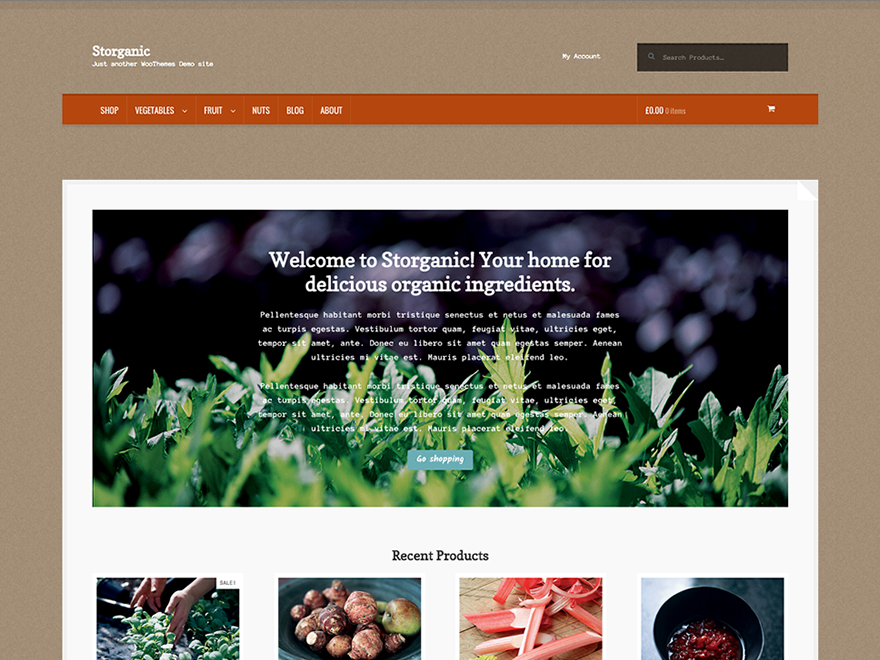
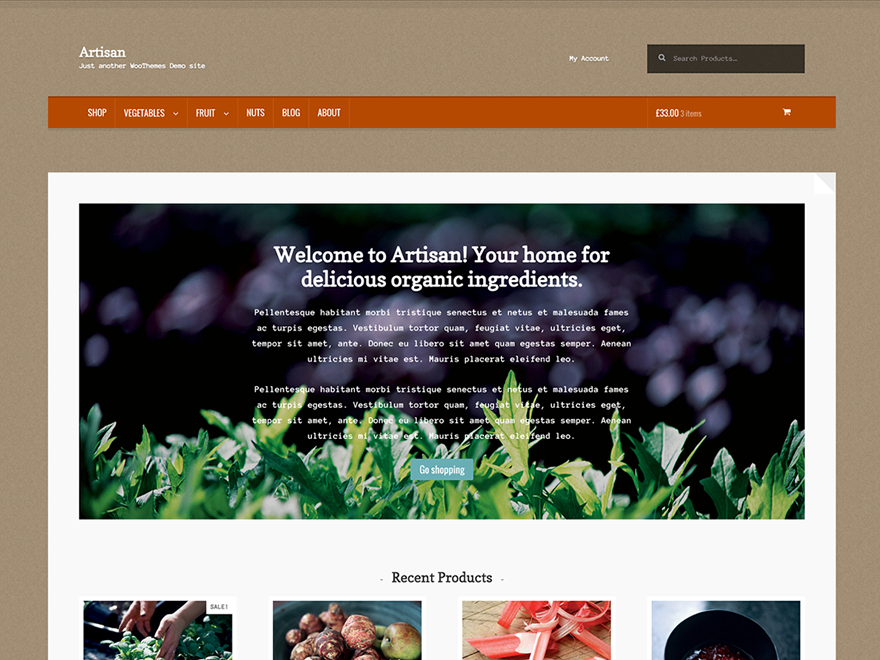
accessibility-ready

diff --git a/style.css b/style.css
@@ -8,13 +8,13 @@ Template:		storefront
 Version:		1.0.0
 License:		GNU General Public License v2 or later
 License URI:	http://www.gnu.org/licenses/gpl-2.0.html
-Tags:			light, green, brown, two-columns, right-sidebar, left-sidebar, responsive-layout
+Tags:			light, green, brown, two-columns, right-sidebar, left-sidebar, responsive-layout, accessibility-ready
 Text Domain:	artisan
 */
 /* =Artisan styles starts here
 -------------------------------------------------------------- */
 body {
-  background-color: #545045;
+  background-color: #645846;
   font-size: .857em;
   -webkit-font-smoothing: subpixel-antialiased; }
   body:before, body:after {
@@ -256,8 +256,7 @@ button.menu-toggle {
   background: #f9f9f9;
   position: relative;
   margin-bottom: 3.631em !important;
-  padding: 1em;
-  box-shadow: 0 0.327em 0 rgba(0, 0, 0, 0.075); }
+  padding: 1em; }
   .content-area:after, .content-area:before {
     content: "";
     display: block;
@@ -295,6 +294,8 @@ button.menu-toggle {
 .header-widget-region .widget_product_search input[type=search],
 .header-widget-region .widget_product_search input[type=text] {
   background: rgba(0, 0, 0, 0.65);
+  color: #fff;
+  text-shadow: 0 1px 0 rgba(0, 0, 0, 0.5);
   box-shadow: inset 0 1px 3px rgba(0, 0, 0, 0.3), 0 1px 1px rgba(255, 255, 255, 0.2); }
 
 .site-footer {
@@ -324,6 +325,10 @@ button.menu-toggle {
 .site-main ul.products li.product h3 {
   font-size: 1.2em; }
 
+.storefront-sorting {
+  border-style: dotted;
+  border-width: 2px 0; }
+
 .woocommerce-breadcrumb {
   margin-top: 0; }
 
@@ -332,7 +337,7 @@ button.menu-toggle {
 
 .single-product div.product .summary .price {
   font-weight: 400;
-  background-color: #69adb5;
+  background-color: #0e7784;
   color: #fff;
   display: inline-block;
   padding: .53em 2.244em .53em 1em;
@@ -354,7 +359,7 @@ button.menu-toggle {
 .widget-area .widget {
   padding: 2.618em 1em 1em 1em;
   position: relative;
-  background: rgba(255, 255, 255, 0.7);
+  background: rgba(255, 255, 255, 0.85);
   font-family: "Kalam"; }
   .widget-area .widget:after {
     content: "";
@@ -364,7 +369,7 @@ button.menu-toggle {
     left: 0;
     width: 100%;
     height: 7px;
-    background: -webkit-linear-gradient(transparent 0%, transparent 0%), -webkit-linear-gradient(135deg, rgba(255, 255, 255, 0.7) 33.33%, transparent 33.33%) 0 0%, transparent -webkit-linear-gradient(45deg, rgba(255, 255, 255, 0.7) 33.33%, transparent 33.33%) 0 0%;
+    background: -webkit-linear-gradient(transparent 0%, transparent 0%), -webkit-linear-gradient(135deg, rgba(255, 255, 255, 0.85) 33.33%, transparent 33.33%) 0 0%, transparent -webkit-linear-gradient(45deg, rgba(255, 255, 255, 0.85) 33.33%, transparent 33.33%) 0 0%;
     background-size: 0px 100%, 9px 9px, 9px 9px;
     -webkit-transform: rotate(180deg);
     -moz-transform: rotate(180deg);
@@ -610,9 +615,6 @@ button.menu-toggle {
     overflow: visible; }
     .site-main ul.products li.product h3 {
       font-weight: 700; }
-    .site-main ul.products li.product img {
-      background: #fff;
-      padding: .618em; }
     .site-main ul.products li.product .onsale {
       position: absolute;
       top: .618em;
@@ -788,6 +790,3 @@ button.menu-toggle {
   .col-full {
     margin-left: 0;
     margin-right: 0; } }
-@media screen and (min-width: 1024px) {
-  body {
-    font-size: .95em; } }

diff --git a/style.scss b/style.scss
@@ -8,7 +8,7 @@ Template:		storefront
 Version:		1.0.0
 License:		GNU General Public License v2 or later
 License URI:	http://www.gnu.org/licenses/gpl-2.0.html
-Tags:			light, green, brown, two-columns, right-sidebar, left-sidebar, responsive-layout
+Tags:			light, green, brown, two-columns, right-sidebar, left-sidebar, responsive-layout, accessibility-ready
 Text Domain:	artisan
 */
 
@@ -21,7 +21,7 @@ Text Domain:	artisan
 @import '../storefront/sass/utils/variables';
 
 $orange: 	#b64902;
-$blue: 		#69adb5;
+$blue: 		#0e7784;
 $chocolate: #7D5D4E;
 $jasper:	#D28779;
 $sage:		#98a98b;
@@ -35,7 +35,7 @@ $monospace: 'Anonymous Pro', monospace;
 $handwritten: 'Kalam';
 
 body {
-	background-color: #545045;
+	background-color: #645846;
 	font-size: .857em;
 	-webkit-font-smoothing: subpixel-antialiased;
 
@@ -341,8 +341,6 @@ button.menu-toggle {
 	position: relative;
 	margin-bottom: 3.631em !important;
 	padding: 1em;
-	box-shadow:
-		0 .327em 0 rgba(#000,.075);
 
 	&:after,
 	&:before {
@@ -385,6 +383,8 @@ button.menu-toggle {
 .header-widget-region .widget_product_search input[type=search],
 .header-widget-region .widget_product_search input[type=text] {
 	background: rgba(#000,.65);
+	color: #fff;
+	text-shadow: 0 1px 0 rgba(#000,.5);
 	box-shadow:
 		inset 0 1px 3px rgba(#000,.3),
 		0 1px 1px rgba(#fff,.2);
@@ -438,6 +438,11 @@ button.menu-toggle {
 	}
 }
 
+.storefront-sorting {
+	border-style: dotted;
+	border-width: 2px 0;
+}
+
 .woocommerce-breadcrumb {
 	margin-top: 0;
 }
@@ -481,7 +486,7 @@ button.menu-toggle {
 	.widget {
 		padding: 2.618em 1em 1em 1em;
 		position: relative;
-		background: rgba(#fff,.7);
+		background: rgba(#fff,.85);
 		font-family: $handwritten;
 
 		&:after {
@@ -492,7 +497,7 @@ button.menu-toggle {
 		    left: 0;
 		    width: 100%;
 		    height: 7px;
-	   		background: -webkit-linear-gradient(rgba(#000,0) 0%, transparent 0%), -webkit-linear-gradient(135deg, rgba(#fff,.7) 33.33%, transparent 33.33%) 0 0%, rgba(#000,0) -webkit-linear-gradient(45deg, rgba(#fff,.7) 33.33%, rgba(#000,0) 33.33%) 0 0%;
+	   		background: -webkit-linear-gradient(rgba(#000,0) 0%, transparent 0%), -webkit-linear-gradient(135deg, rgba(#fff,.85) 33.33%, transparent 33.33%) 0 0%, rgba(#000,0) -webkit-linear-gradient(45deg, rgba(#fff,.85) 33.33%, rgba(#000,0) 33.33%) 0 0%;
 		    background-size: 0px 100%, 9px 9px, 9px 9px;
 		    @include transform(rotate(180deg));
 		}
@@ -834,11 +839,6 @@ button.menu-toggle {
 					font-weight: 700;
 				}
 
-				img {
-					background: #fff;
-					padding: .618em;
-				}
-
 				.onsale {
 					position: absolute;
 					top: .618em;
@@ -1085,11 +1085,5 @@ button.menu-toggle {
 	.col-full {
 		margin-left: 0;
 		margin-right: 0;
-	}
-}
-
-@media screen and (min-width: 1024px) {
-	body {
-		font-size: .95em;
 	}
 }

diff --git a/inc/customizer/colors.php b/inc/customizer/colors.php
@@ -19,7 +19,7 @@ function artisan_color_black( $color ) {
  * @return  string color
  */
 function artisan_color_blue( $color ) {
-	$color = '#69adb5';
+	$color = '#0e7784';
 	return $color;
 }
 
@@ -87,7 +87,7 @@ function artisan_color_orange( $color ) {
  * @return  string color
  */
 function artisan_color_leather( $color ) {
-	$color = '#CCB798';
+	$color = '#645846';
 	return $color;
 }
 
@@ -114,7 +114,7 @@ function artisan_color_white( $color ) {
  * @return  string color
  */
 function artisan_color_english_winter( $color ) {
-	$color = '#777777';
+	$color = '#615d59';
 	return $color;
 }
 
